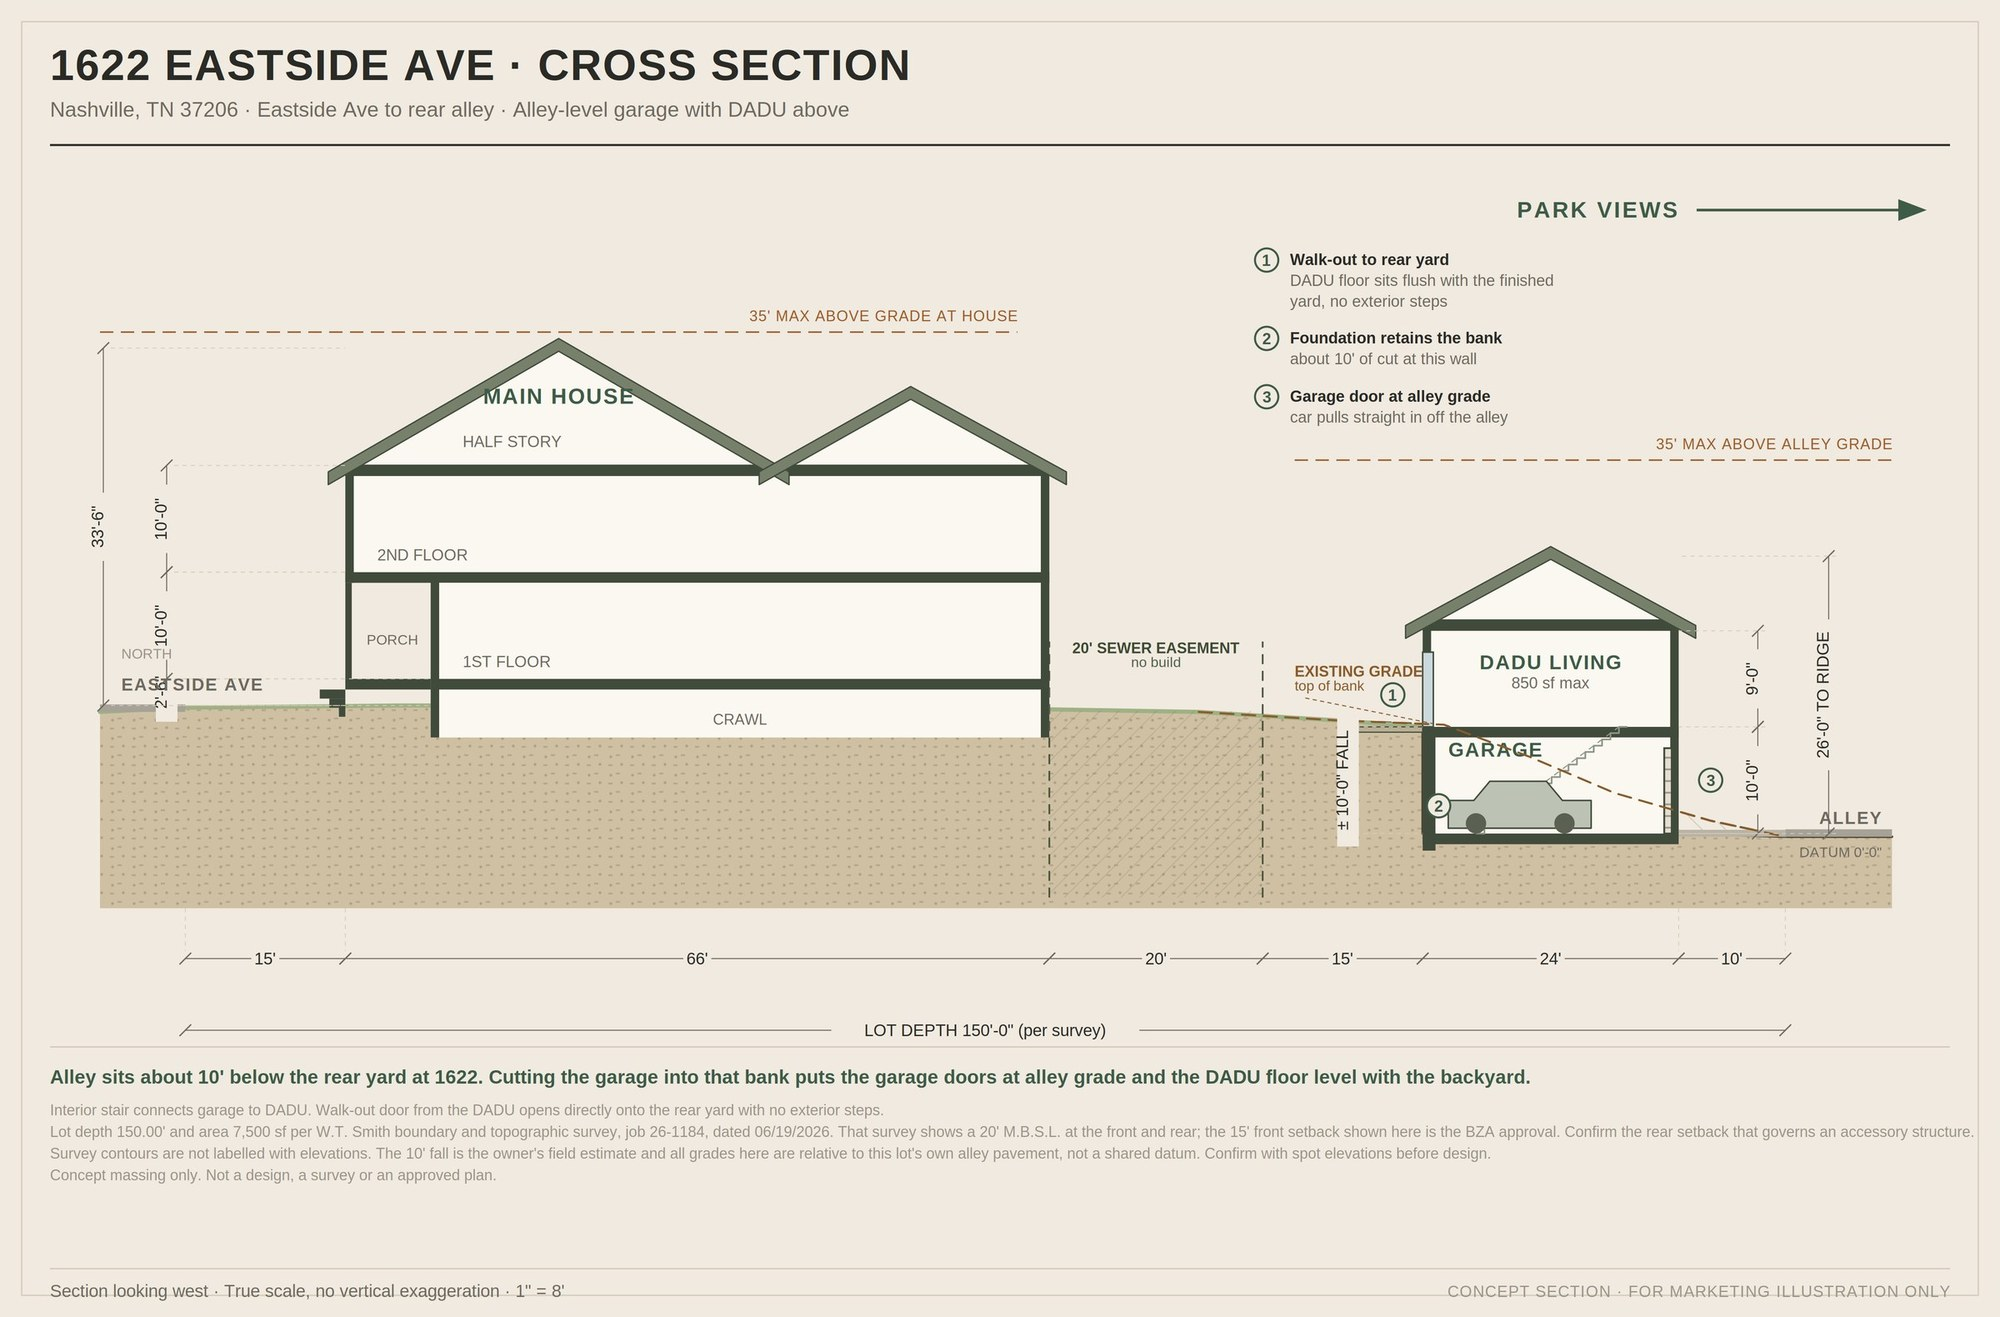
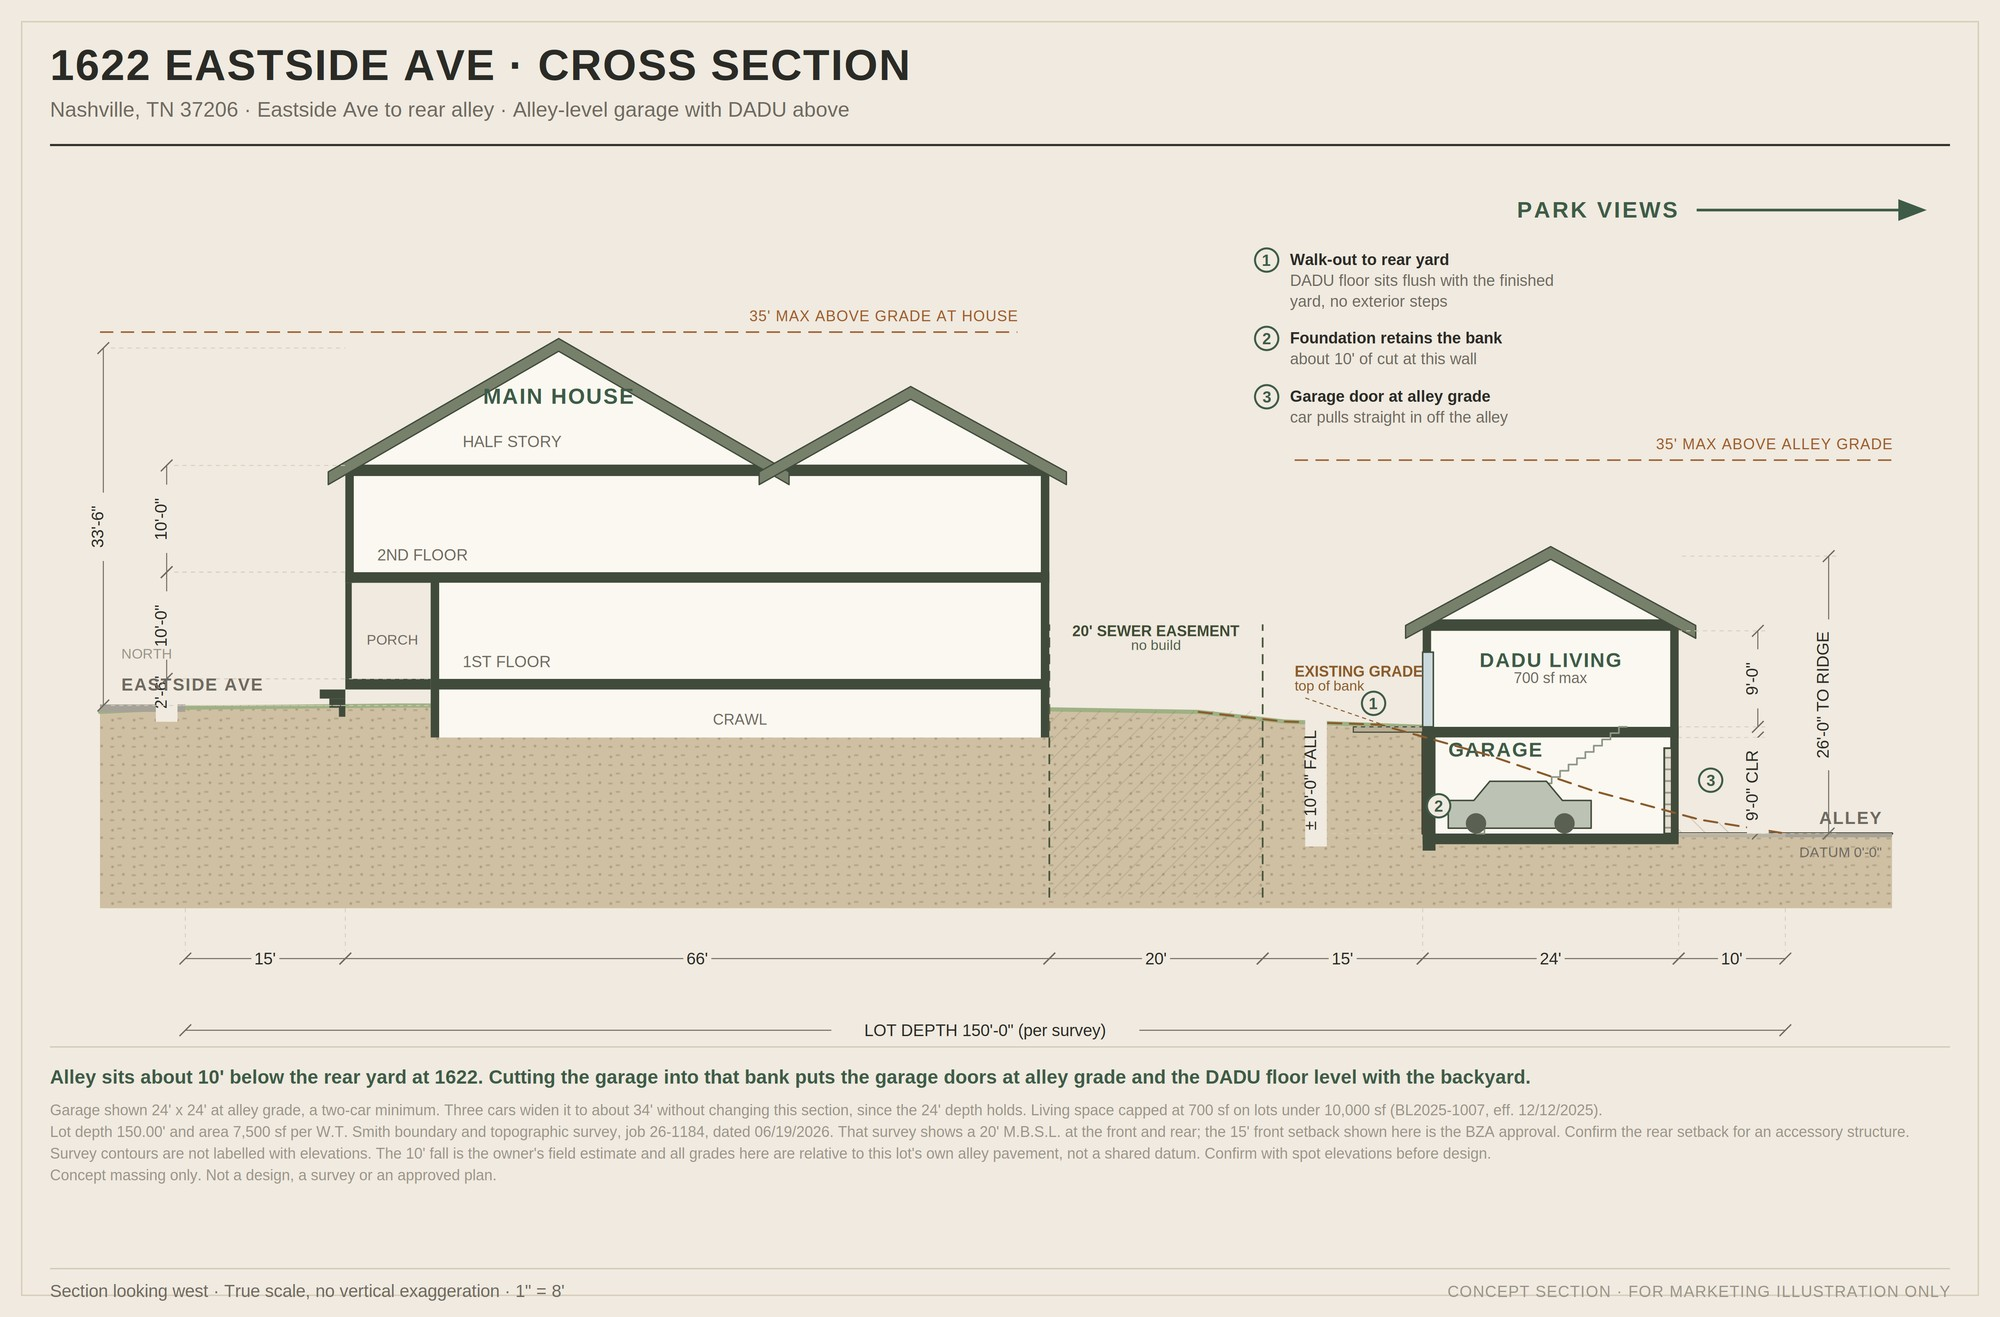
Add files via upload

diff --git a/index.html b/index.html
@@ -546,7 +546,8 @@ footer{
       <div class="row"><dt>Main house envelope</dt><span class="fill"></span><dd>66' &times; 40'</dd></div>
       <div class="row"><dt>Footprint</dt><span class="fill"></span><dd class="hi">2,640 sf</dd></div>
       <div class="row"><dt>Height limit</dt><span class="fill"></span><dd>35' &middot; 2.5 stories</dd></div>
-      <div class="row"><dt>DADU living space</dt><span class="fill"></span><dd class="hi">up to 850 sf</dd></div>
+      <div class="row"><dt>Garage</dt><span class="fill"></span><dd>2-car min &middot; 3-car fits</dd></div>
+      <div class="row"><dt>DADU living space</dt><span class="fill"></span><dd class="hi">up to 700 sf</dd></div>
     </dl>
   </div>
 </section>
@@ -560,7 +561,7 @@ footer{
 
     <div class="stack" style="margin-top: clamp(28px,4vw,48px)">
       <figure class="photo">
-        <img loading="lazy" decoding="async" src="images/lot-lines-oblique.jpg" alt="Aerial photograph looking southwest over the two lots with the lot boundaries drawn in white, labelled 1624 and 1622, Shelby Park beyond the rear alley">
+        <img loading="lazy" decoding="async" src="images/lot-lines-oblique.jpg" alt="Aerial photograph looking southwest over the two lots with the lot boundaries drawn in white, labeled 1624 and 1622, Shelby Park beyond the rear alley">
         <figcaption><b>Looking southwest.</b> Eastside Avenue at lower right, rear alley beyond, Shelby Park past the tree line. Lot lines shown are approximate; verify with the survey.</figcaption>
       </figure>
 
@@ -583,8 +584,8 @@ footer{
       <p>Both lots sit up off the alley, so the back of each house looks out over that green edge rather than into a neighbor's fence. The skyline is on the other side.</p>
     </div>
     <figure class="photo">
-      <img loading="lazy" decoding="async" src="images/dusk-aerial.jpg" alt="Aerial photograph at dusk showing the two vacant lots in the centre with open park land to the right">
-      <figcaption><b>Dusk over the block.</b> The lots at centre, open park land to the east.</figcaption>
+      <img loading="lazy" decoding="async" src="images/dusk-aerial.jpg" alt="Aerial photograph at dusk showing the two vacant lots in the center with open park land to the right">
+      <figcaption><b>Dusk over the block.</b> The lots at center, open park land to the east.</figcaption>
     </figure>
   </div>
 </section>
@@ -598,12 +599,12 @@ footer{
 
     <figure class="mapfig" style="margin-top: clamp(26px,3.6vw,44px)">
       <div class="mapstage">
-        <img loading="lazy" decoding="async" src="images/location-aerial.jpg" alt="Wide aerial photograph at sunset showing Shelby Park at left, the two lots at centre, and the downtown Nashville skyline in the distance">
+        <img loading="lazy" decoding="async" src="images/location-aerial.jpg" alt="Wide aerial photograph at sunset showing Shelby Park at left, the two lots at center, and the downtown Nashville skyline in the distance">
         <span class="mk" style="left:20%; top:42%">Shelby Park</span>
         <span class="mk" style="left:70%; top:23%">Downtown Nashville</span>
         <span class="mk site" style="left:50%; top:62%">1622 &amp; 1624</span>
       </div>
-      <figcaption>Park land at left, the site at centre, the skyline on the horizon.</figcaption>
+      <figcaption>Park land at left, the site at center, the skyline on the horizon.</figcaption>
     </figure>
 
     <div class="maplinks">
@@ -618,7 +619,7 @@ footer{
   <div class="wrap">
     <p class="eyebrow">What fits</p>
     <h2>The buildable envelope, drawn to scale.</h2>
-    <p class="lede">A 66&nbsp;&times;&nbsp;40 main house sets a 2,640 sf footprint, with a detached garage and DADU at the alley and 35 feet of backyard in between.</p>
+    <p class="lede">A 66&nbsp;&times;&nbsp;40 main house sets a 2,640 sf footprint, with a detached garage and DADU at the alley and 35 feet of backyard in between. The garage is drawn at two cars; three fit.</p>
 
     <div class="dimwrap">
       <h3>Depth stack, street to alley</h3>
@@ -643,7 +644,7 @@ footer{
       <div class="plate">
         <img loading="lazy" decoding="async" src="images/site-plan.jpg" alt="Site plan drawing of 1624 and 1622 Eastside Avenue showing the buildable envelope, setbacks, sewer easement and DADU footprints, with a site summary panel">
       </div>
-      <figcaption><b>Buildable envelope study.</b> The DADU is drawn at 24&nbsp;&times;&nbsp;24; a larger footprint fits within the setbacks shown, and Metro allows up to 850 sf of living space above the garage. Concept study, not a survey or an approved plan.</figcaption>
+      <figcaption><b>Buildable envelope study.</b> The 24&nbsp;&times;&nbsp;24 garage is a two-car minimum. The dashed extension is a three-car footprint at about 34&nbsp;&times;&nbsp;24, which still holds the 3&#39; side setbacks and still carries the full DADU above. Metro allows up to 700 sf of living space above the garage on lots under 10,000 sf. Concept study, not a survey or an approved plan.</figcaption>
     </figure>
   </div>
 </section>
@@ -654,7 +655,7 @@ footer{
     <p class="eyebrow">The grade</p>
     <h2>The fall to the alley is the best thing about these lots.</h2>
     <p class="lede">The alley sits well below the rear yard, roughly 10 feet at 1622 and 6 feet at 1624.</p>
-    <p style="max-width:66ch">Cut the garage into that bank and the doors land at alley grade. The floor above comes out level with the backyard, so the living space over the garage opens straight onto the lawn, looking south over the park.</p>
+    <p style="max-width:66ch">Cut the garage into that bank and the doors land at alley grade. The floor above comes out level with the backyard, so the living space over the garage opens straight onto the lawn, looking south over the park. Widening to a three-car garage does not change any of this, because the depth stays at 24 feet.</p>
 
     <figure style="margin-top: clamp(30px,4vw,52px)">
       <div class="plate">
